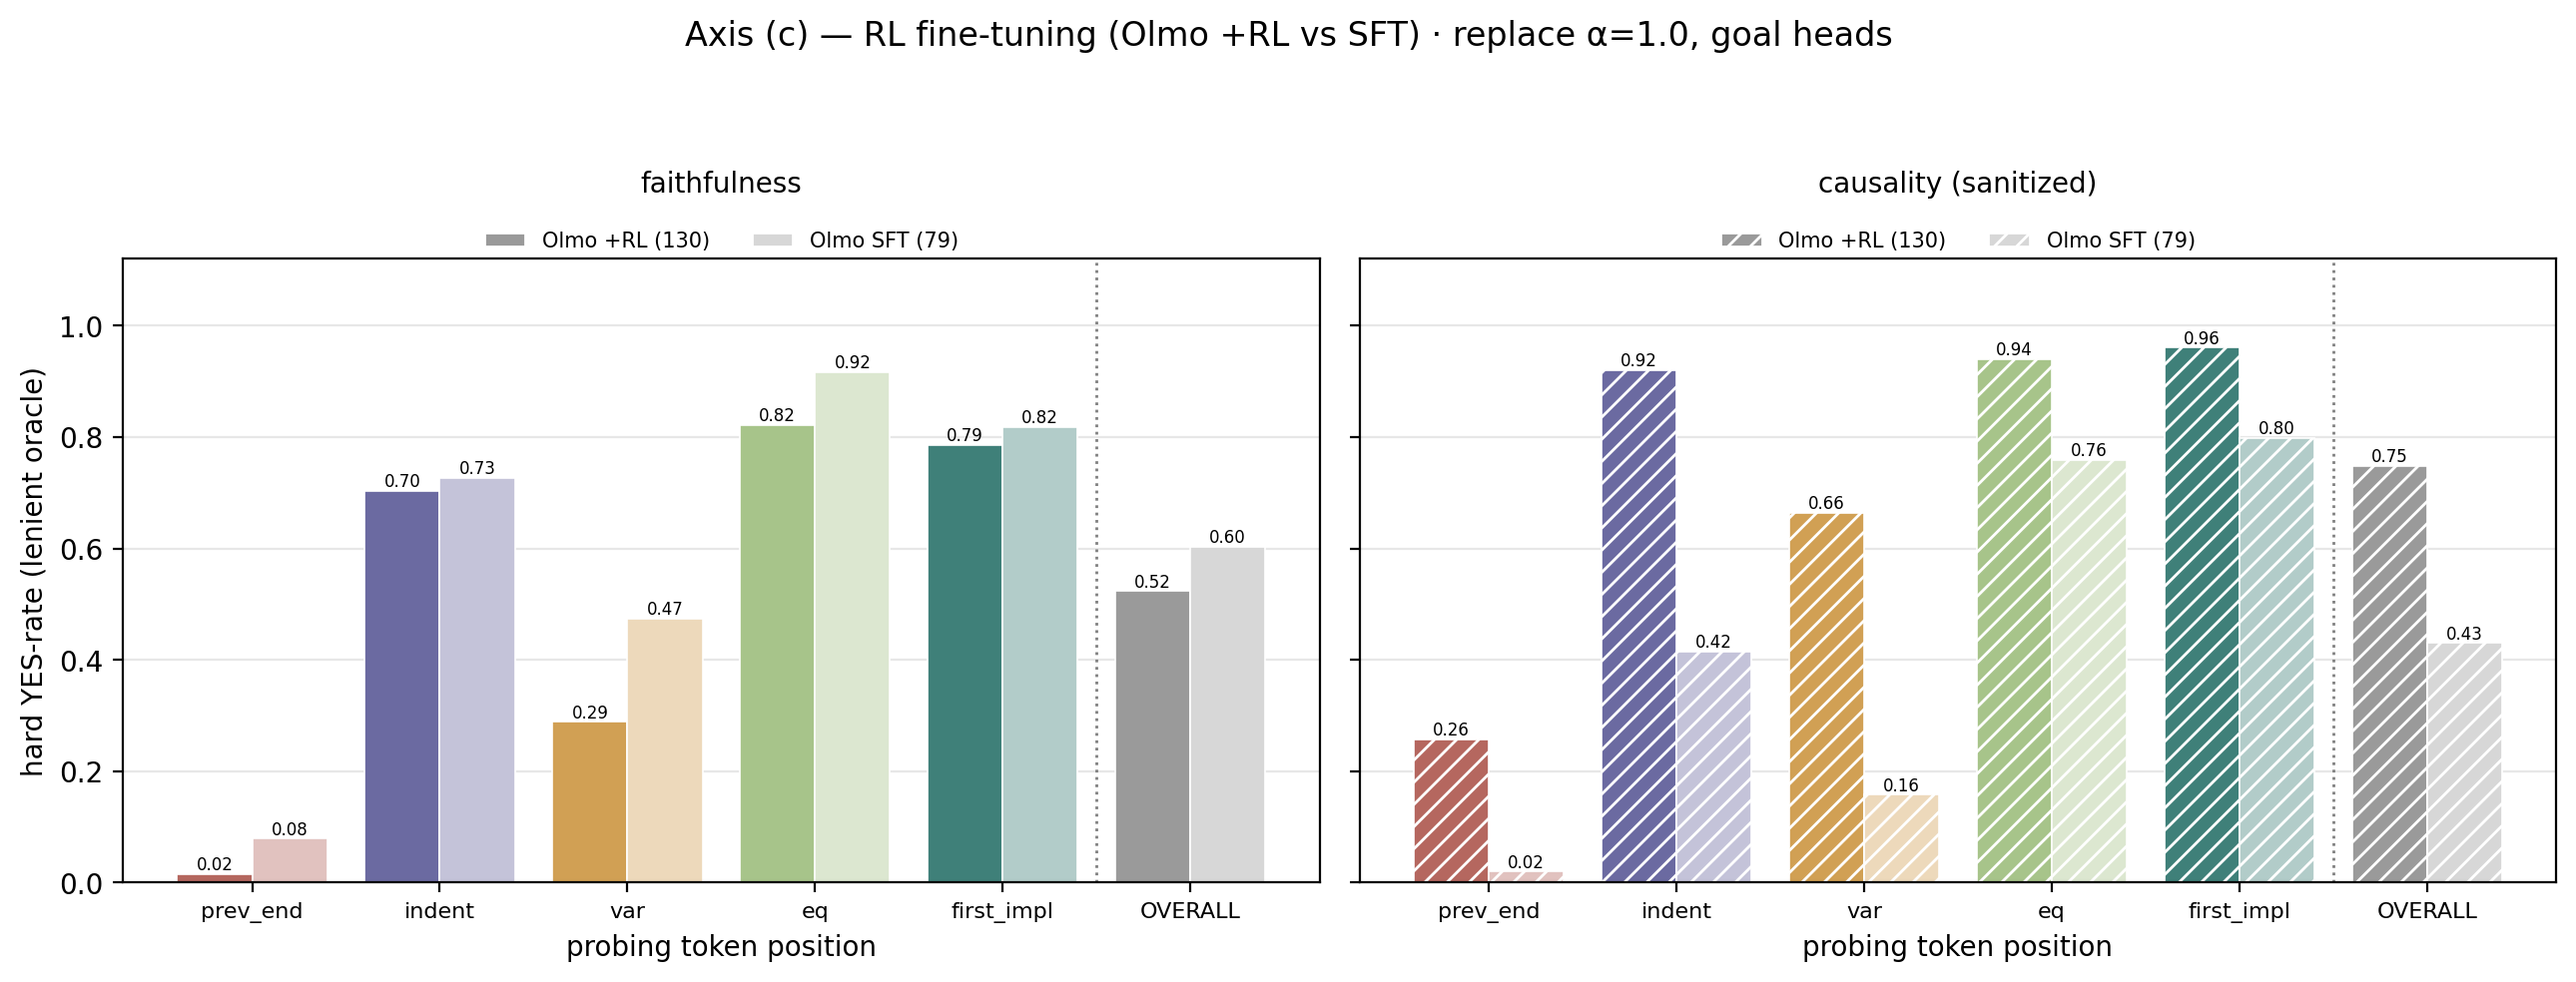
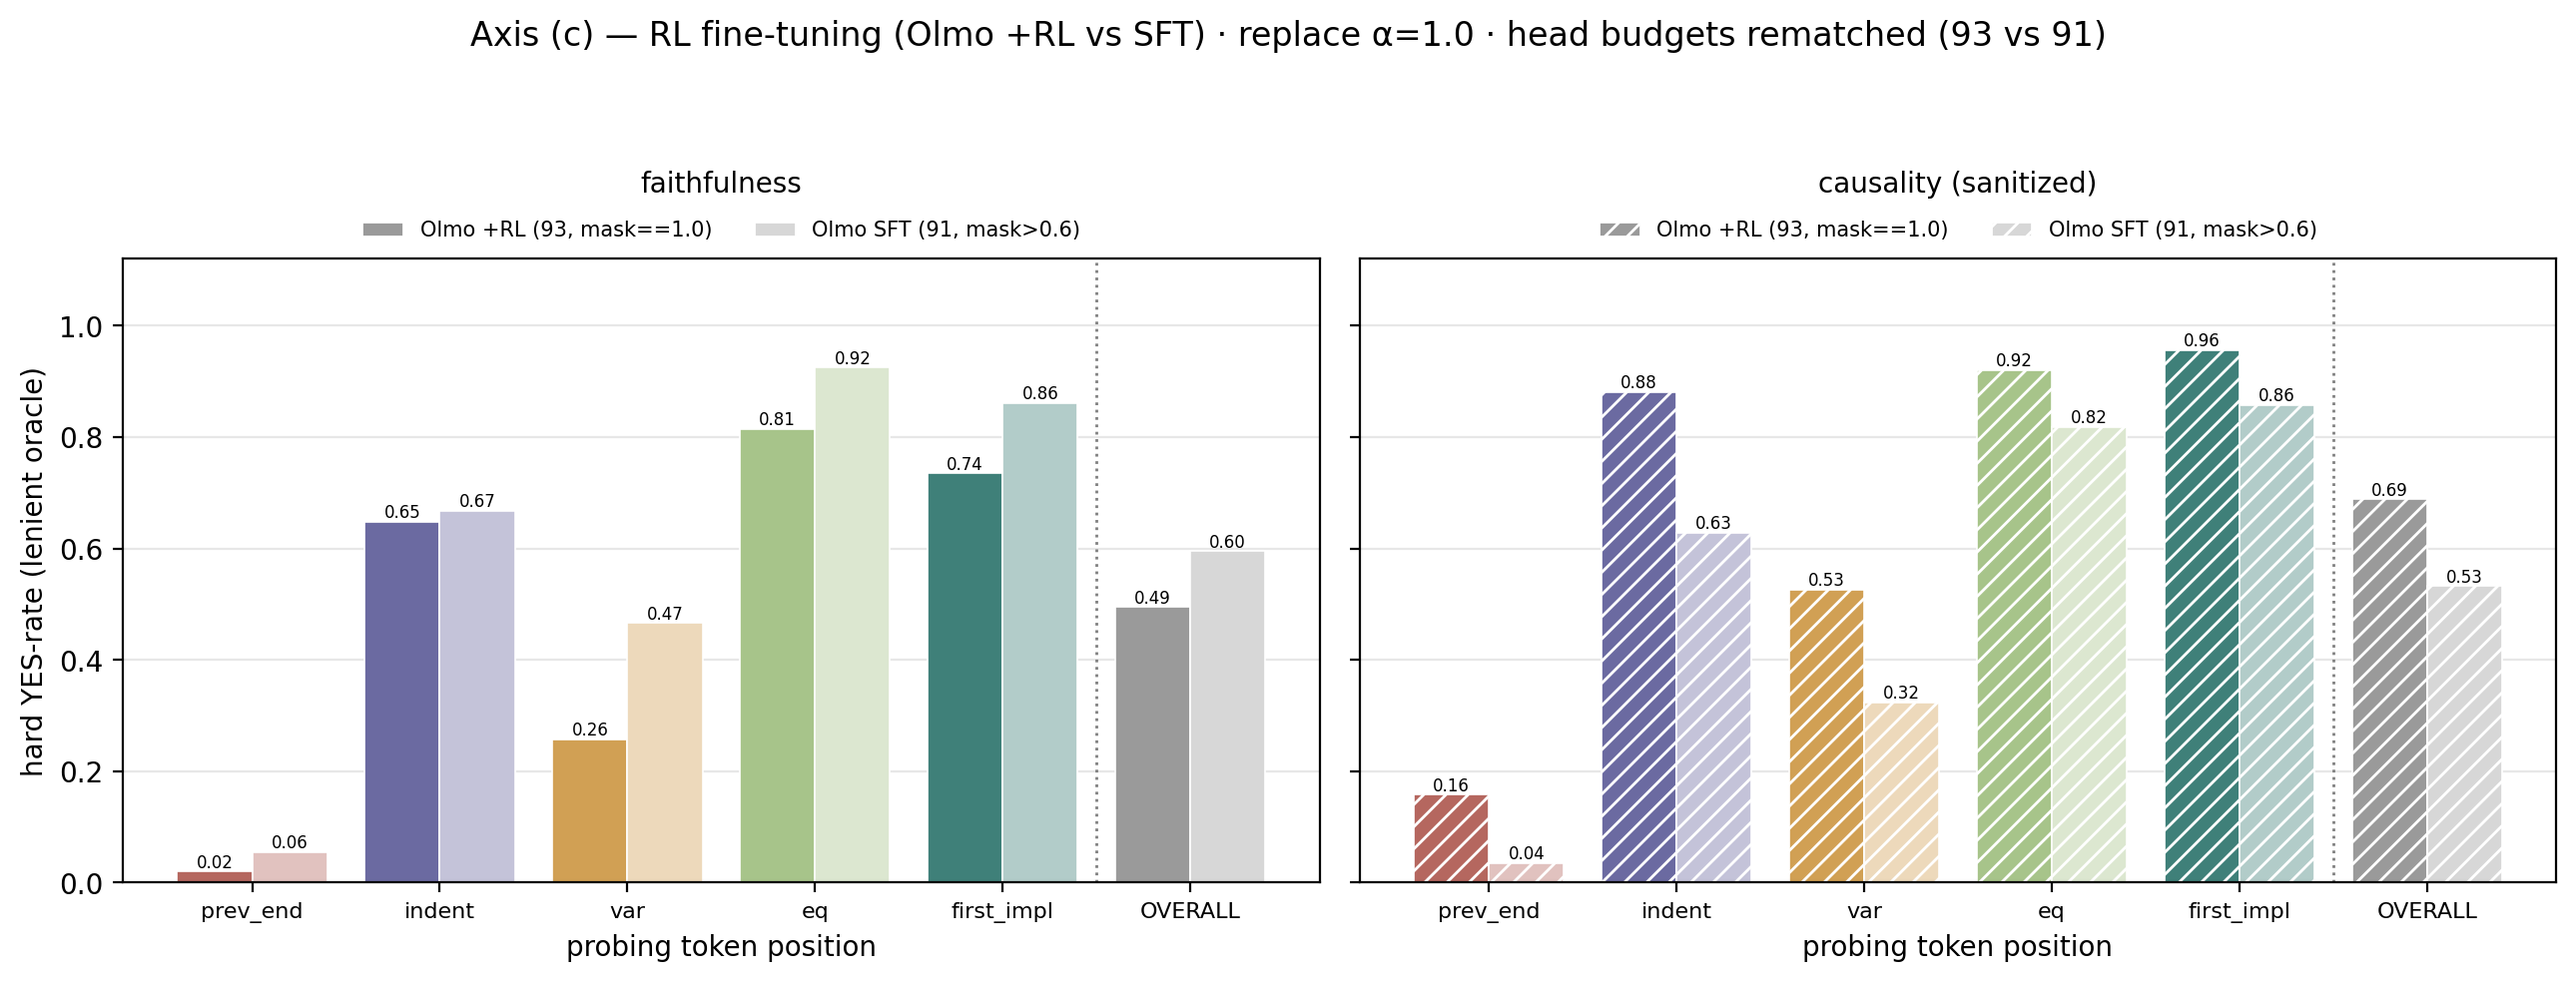
goalscope axis-c: OLMo results at rematched head budgets (93 vs 91)
Replace the lopsided 130/79 OLMo numbers with the depth-matched runs (+RL mask==1.0 -> 93,
SFT mask>0.6 -> 91). Matched budgets halve the causality gap (0.32 -> 0.16) but a real
+RL causal-encoding edge survives (caus 0.69 vs 0.53); faithfulness is marginally higher
for SFT (0.60 vs 0.50). Regen RL figure; keep old numbers as a note.

diff --git a/agent_reports/claude/analysis/goalscope_eval_axis.md b/agent_reports/claude/analysis/goalscope_eval_axis.md
@@ -50,8 +50,13 @@ remote box; §2 of the notebook + this section populate once they land.
 | **Qwen2.5-Coder-32B** (122) | 0.823 | 0.783 |
 | **Qwen2.5-Coder-14B** (88) | 0.598 | 0.401 |
 | Qwen2.5-32B-Instruct (108) | 0.308 | 0.540 |
-| Olmo-3.1-32B-Instruct **+RL** (130) | 0.523 | 0.749 |
-| Olmo-3.1-32B-Instruct **SFT** (79) | 0.603 | 0.430 |
+| Olmo-3.1-32B-Instruct **+RL** (93, mask==1.0) | 0.495 | 0.689 |
+| Olmo-3.1-32B-Instruct **SFT** (91, mask>0.6) | 0.595 | 0.533 |
+
+> Olmo head budgets **rematched** (2026-09-11): the default `thr>0.9` selection gave a lopsided 130 (+RL)
+> vs 79 (SFT), and the SFT mask is too sparse to reach 130 by lowering the bar (caps ~97). Frozen
+> depth-matched sets — +RL `mask==1.0` → 93, SFT `mask>0.6` → 91 — make the contrast a fair one. Old
+> lopsided numbers for reference: +RL (130) 0.523 / 0.749, SFT (79) 0.603 / 0.430.
 
 | ![scale](figures/goalscope_axis_c_scale.png) |
 |---|
@@ -60,7 +65,7 @@ remote box; §2 of the notebook + this section populate once they land.
 
 - **Scale** (Coder 32B vs 14B): the encoding is markedly cleaner at 32B — faith 0.82 vs 0.60, caus 0.78 vs 0.40.
 - **Code fine-tuning** (Coder-32B vs Qwen-32B-Instruct): the biggest gap — faith 0.82 vs 0.31, caus 0.78 vs 0.54.
-- **RL fine-tuning** (Olmo +RL vs SFT): causality **up** (0.75 vs 0.43) but faithfulness **down** (0.52 vs 0.60).
+- **RL fine-tuning** (Olmo +RL vs SFT, head budgets rematched to 93 vs 91): causality **higher for +RL** (0.69 vs 0.53) but faithfulness **higher for SFT** (0.60 vs 0.50). Rematching from 130/79 roughly halved the causality gap (was 0.32; now 0.16), so about half of it was a head-count artifact — but a real ~0.16 causal-encoding advantage for the RL model survives. Per-pivot, +RL leads on the goal-carrying pivots (`indent` .88 vs .63, `var` .53 vs .32) while SFT's edge is `first_impl` faithfulness.
 
 > Caveat (c): the steer band is fixed at (35, 46) for every model — the *Qwen-32B* band. For Olmo (goal
 > band (10, 36)) it sits outside the goal region, so the Olmo numbers confound "where the goal heads live"
